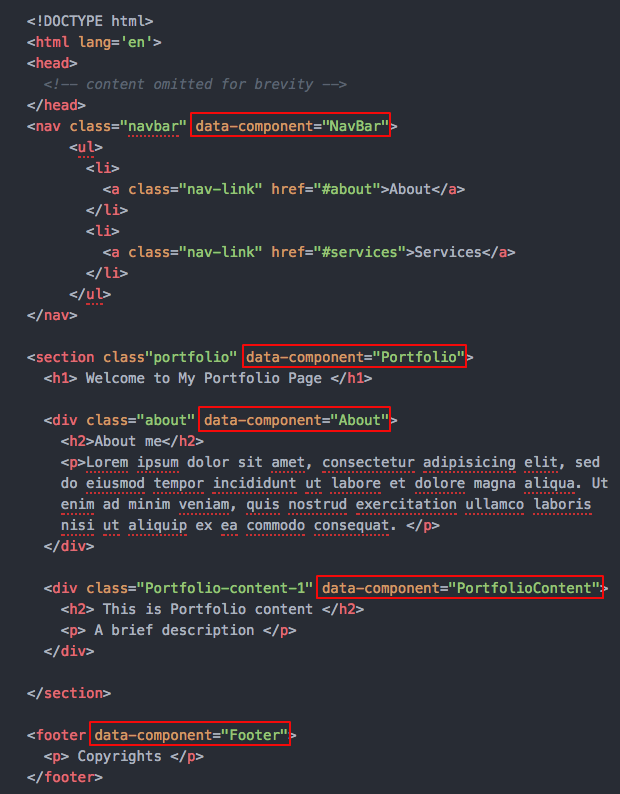
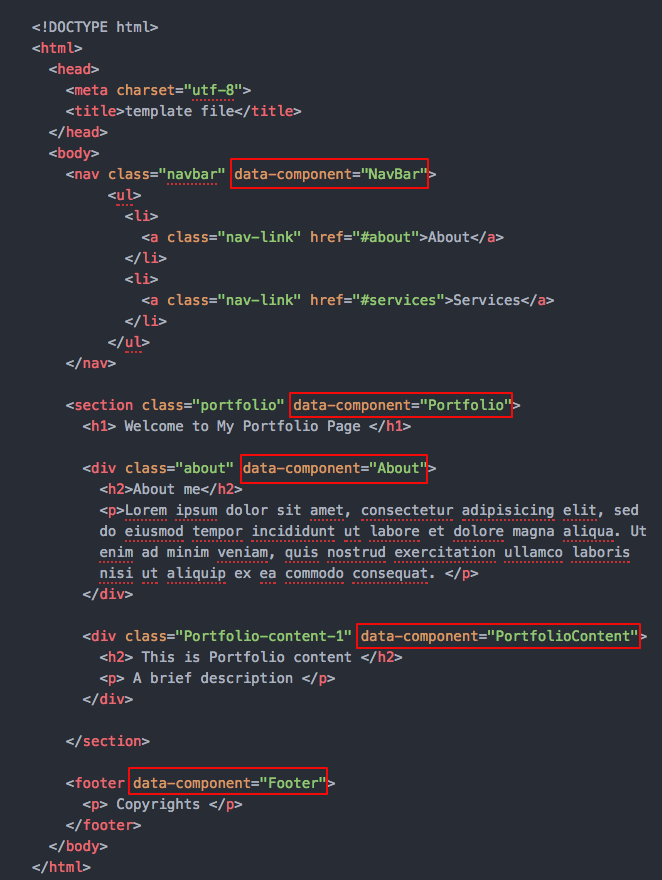
minor fixes

Changed region(s): [[0.0306, 0.0, 0.9806, 0.9975]]

diff --git a/_posts/2017-09-09-create-angular-components-faster.md b/_posts/2017-09-09-create-angular-components-faster.md
@@ -1,9 +1,9 @@
 ---
 layout: post
-title: Creating-Angular-Components tool
+title: Create-Angular-Components Tool
 blurb: A faster way to create Angular components from templates
 date: 2017-09-09
-published: false
+published: true
 tags:
  - Angular-cli
  - Angular
@@ -12,29 +12,29 @@ tags:
  - Components
 ---
 
-Today I'm going to show a very useful tool that might help you to speed up your process in creating your Angular applications.
+I'm going to demonstrate a useful tool that will help you speed up your process when creating Angular applications.
 
-When working with one page template like Bootstrap or mockups, the task of creating each individual component, and then cutting and pasting each template section can become cumbersome. Imagine if you're using Angular-cli, and for each component you have to issue a ``` ng g component my-new-component ``` command plus cut and paste? Isn't there an easier way? Yes! That's when create-angular-components tool comes into action.  
+When working with mockups or one page templates like Bootstrap, the task of creating each individual component, and then cutting and pasting each template section, can become cumbersome. Imagine if you're using Angular-cli, and for each component you have to issue a ``` ng g component my-new-component ``` command plus cut and paste. Is there an easier way? Yes! That's when the create-angular-components tool comes into action.  
 
-### First things first
+### First Things First
 
 For this demonstration, I'm assuming you already have angular-cli and/or have your Angular app installed. If not, please follow these [steps](https://github.com/angular/angular-cli#generating-components-directives-pipes-and-services).
 
-Once you have your application up and running, let's install Create Angular Components tool:
+Once you have your application up and running, let's install the create-angular-components tool:
 
 ```bash
 npm install -g create-angular-components
 ```
 
-So far this is the basic tree structure of my angular application
+If you've followed the steps above accurately, your Angular application tree structure should be similar to my below structure.
 
 <div id="wrapper">
   <img class="img-responsive" src="{{ "/assets/img/cac-init-tree-structure.png" | prepend: site.baseurl }}">
 </div>
 
-### Using the template file
+### Using the Template File
 
-Here's a very simple example of a html mockup or one page template, that I copied to the app folder:
+Here's a very simple example of a html mockup or one page template that I copied to the app folder:
 
 ```
 my-app
@@ -42,7 +42,7 @@ my-app
       └── app
           └── template.html
 ```
-Note: I decided to call it template.html instead of index.html not to confuse with the file with same name on src folder, but you can call it anything you want.
+Note: I decided to call it template.html instead of index.html so not to confuse the file with the same name on the src folder. But you can call it anything you want.
 
 ```html
 
@@ -62,7 +62,7 @@ Note: I decided to call it template.html instead of index.html not to confuse wi
      </ul>
 </nav>
 
-<section class"portfolio">
+<section class="portfolio">
   <h1> Welcome to My Portfolio Page </h1>
 
   <div class="about">
@@ -92,9 +92,9 @@ As you can see, it's structured in these following sections:
   * \- portfolio content
 * \- footer
 
-Those are the parts I want to transform into components and subcomponents.
+The above html elements are the parts I want to transform into components and subcomponents.
 
-### Setting up
+### Setting Up
 
 Now, all we have to do is mark up the html elements we want to transform into components by adding ``` data-component="ComponentName" ```. Don't forget: use CamelCase!
 
@@ -102,7 +102,7 @@ Now, all we have to do is mark up the html elements we want to transform into co
   <img class="img-responsive" src="{{ "/assets/img/cac-markedupfile.png" | prepend: site.baseurl }}">
 </div>
 
-### Firing up the command
+### Firing Up the Command
 
 Once all elements are marked with data-component attributes, it's time to issue the command.
 
@@ -121,8 +121,7 @@ Looking at the final result of your folder tree, you should have:
   <img class="img-responsive" src="{{ "/assets/img/cac-treefinalresult.png" | prepend: site.baseurl }}">
 </div>
 
-
-Looking at ``` about.component.html ``` you should see all the content of the about from your template:
+Looking at ``` about.component.html ``` you should see all the content of the 'about' from your template:
 
 ```html
 <div class="about">
@@ -132,7 +131,7 @@ Looking at ``` about.component.html ``` you should see all the content of the ab
 
 ```
 
-This is your about.component.ts ready to be populated:
+This is your about.component.ts with the started code ready to be populated:
 
 ```javascript
 import { Component } from '@angular/core';
@@ -147,8 +146,8 @@ export class AboutComponent {
 }
 
 ```
-Not only it generates a folder with the name you've specified in the data-component attribute, including the TypeScript file, css file, html file with your content, but also the unit test file. Pretty cool, eh?
+Not only does it generate a folder with the name you've specified in the data-component attribute, including the TypeScript file, css file, html file with your content, but also the unit test file. Pretty cool, eh?
 
 Also your template.html file remains intact. You can either remove it or redo your components whenever you want.
 
-Well, this is it for today. A big thanks to Alexey Okhrimenko (@aiboy on Github) for creating this great tool, and if you want visit his github page or see the repo, please go [here](https://github.com/aiboy/create-angular-components)
+Well, that's it for today. A big thank you to Alexey Okhrimenko (@aiboy on Github) for creating this great tool, and if you want to visit his github page or see the repo, please go [here](https://github.com/aiboy/create-angular-components).
